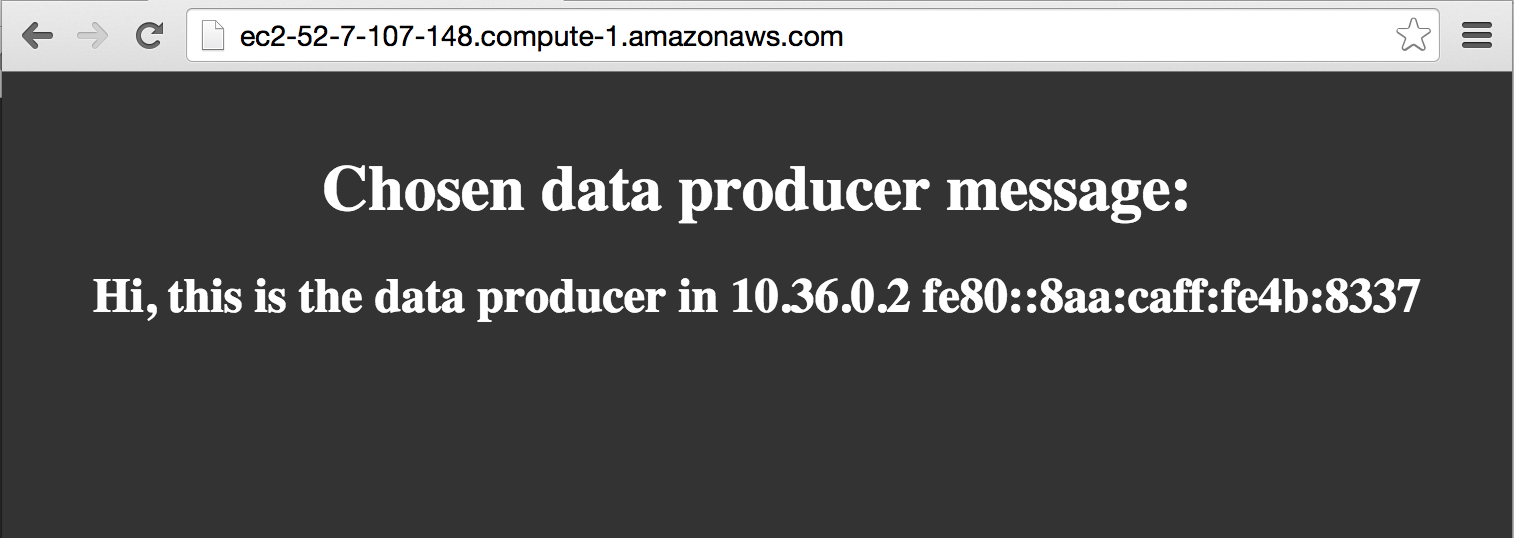
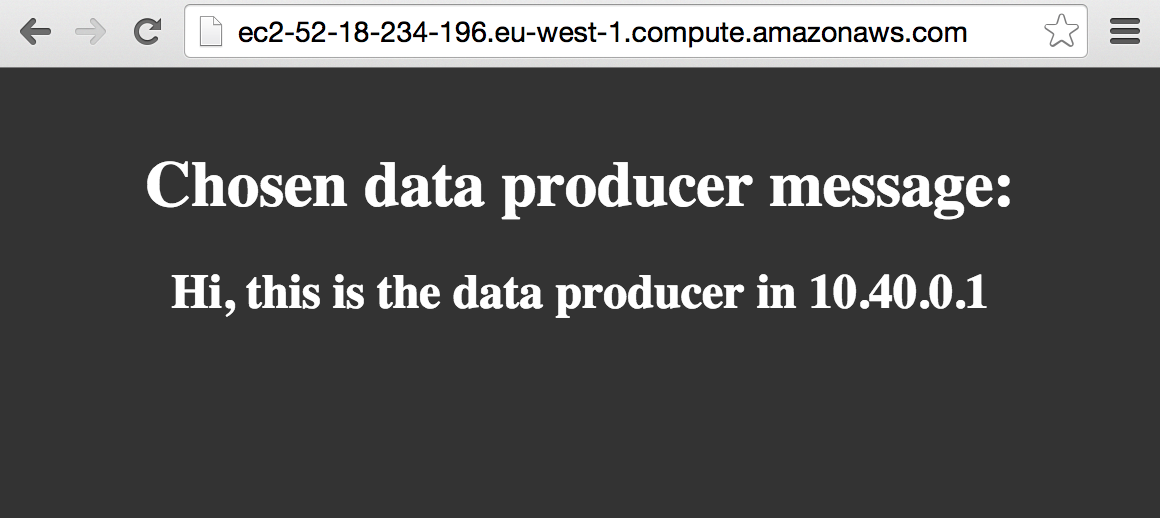
[aws-ecs] Send only the dataproducer's main IP address

Changed region(s): [[0.0, 0.0, 1.0, 1.0], [0.0621, 0.4942, 0.9621, 0.6178], [0.1241, 0.3089, 0.869, 0.4324]]

diff --git a/aws-ecs/README.md b/aws-ecs/README.md
@@ -148,7 +148,8 @@ Container `dataproducer`:
 
 ~~~bash
 while true; do
-  echo 'Hi, this is the data producer in' `hostname -i` | nc -q 0 -l -p 4540
+  IP=`hostname -i | awk '{ print $1 }'`
+  echo "Hi, this is the data producer in $IP" | nc -q 0 -l -p 4540
 done
 ~~~
 
